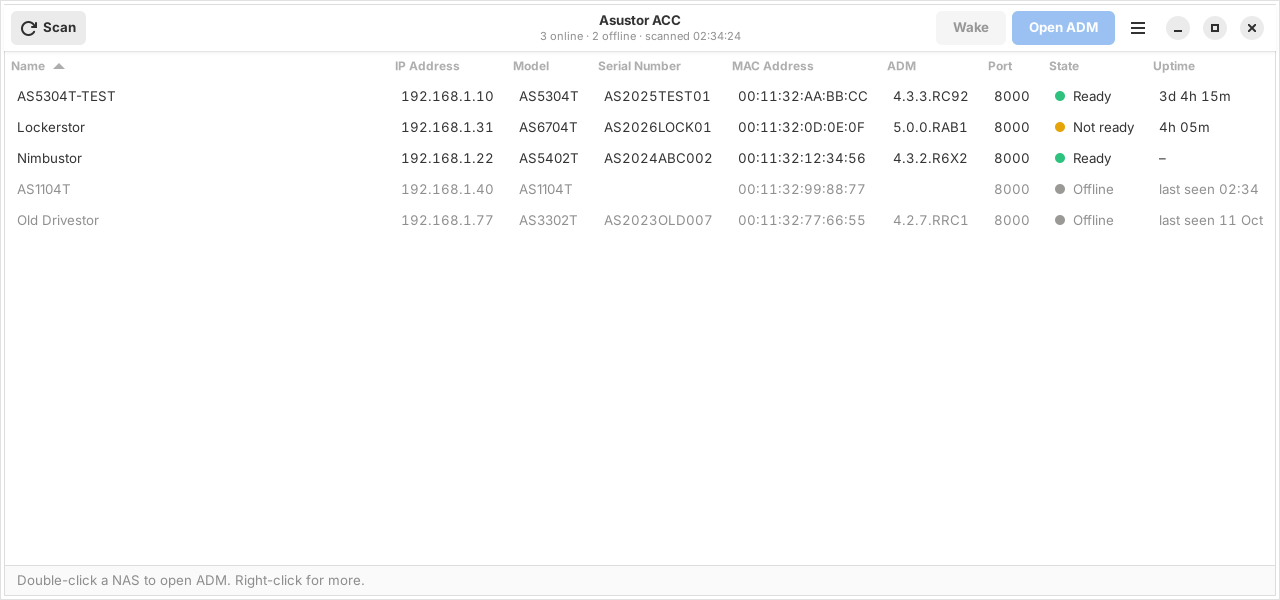
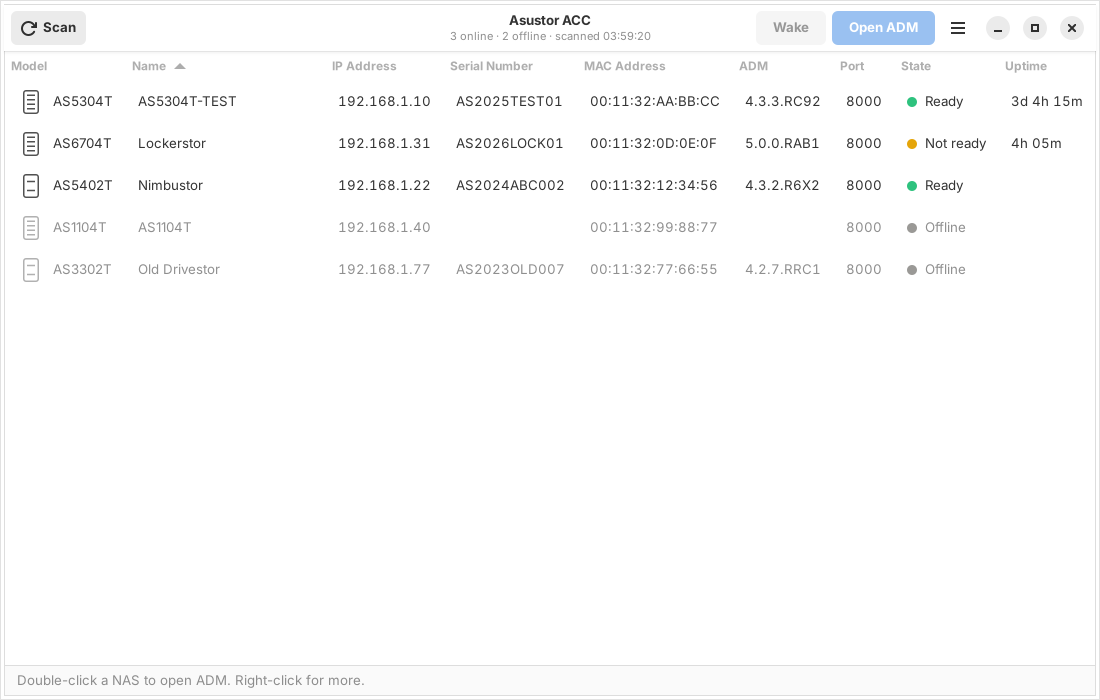
1.4.2: table first with the model column left and a model glyph, fast with hundreds of devices
- The table is the layout from 1000 px up; cells ellipsize with the
  full text in the tooltip, so a long serial no longer forces the card
  layout on a wide window. Cards below that.
- Model column first, with a small glyph of the NAS form factor (bays,
  tower/rack/flash) read off the model number; the cards lead with it.
- Applying a scan inserts new devices in one splice: with ~200 devices
  the per-device append made the views rebind for seconds and the
  window sat on 'Scanning'.
- Uptime column only when a NAS reports one; README screenshot.

diff --git a/gui/acc-gui.py b/gui/acc-gui.py
@@ -7,6 +7,7 @@ list, keeps them fresh and shows the uptime each NAS reports over SNMP.
 """
 import json
 import os
+import re
 import shutil
 import subprocess
 import sys
@@ -18,7 +19,9 @@ import gi
 
 gi.require_version("Gtk", "4.0")
 gi.require_version("Gdk", "4.0")
-from gi.repository import Gdk, Gio, GLib, GObject, Gtk, Pango  # noqa: E402
+gi.require_version("Gsk", "4.0")
+gi.require_version("Graphene", "1.0")
+from gi.repository import Gdk, Gio, GLib, GObject, Graphene, Gsk, Gtk, Pango  # noqa: E402
 
 # libadwaita is optional. With it the window follows the system's
 # light/dark preference and gets the current GNOME header bar look.
@@ -53,19 +56,18 @@ WEBSITE = "https://github.com/moringa303/asustor-acc-linux"
 SCAN_TIMEOUT = 4  # seconds acc listens for answers
 REFRESH_SECONDS = int(os.environ.get("ACC_GUI_REFRESH", "30"))
 
-# Layout. The device list is a table when the window content is wide
-# enough to show every column in full and a list of cards below that, so
-# nothing is ever truncated or hidden behind a horizontal scrollbar.
-# TABLE_WIDTH is what the nine columns need for typical content (1010 px
-# measured with the test harness devices). Below COMPACT_WIDTH the header
-# bar keeps only the Scan icon, Open ADM and the menu (Wake stays in the
-# menus) and the summary moves from the title to the status bar, so the
-# window can shrink to MIN_WIDTH without hiding anything. Both are floors:
-# the real width the table and the full header bar need is measured too,
-# and a layout gives way LAYOUT_SLACK before that, because a window
-# manager keeps the window at the current layout's minimum width and
-# would otherwise never let it reach the breakpoint.
-TABLE_WIDTH = 1010
+# Layout. The device list is the familiar table whenever the window is
+# at least TABLE_WIDTH wide; the cells ellipsize (the full text is in the
+# tooltip) so the table always fits and never needs a horizontal
+# scrollbar. Narrower windows get a list of cards that wrap their text.
+# Below COMPACT_WIDTH the header bar keeps only the Scan icon, Open ADM
+# and the menu (Wake stays in the menus) and the summary moves from the
+# title to the status bar, so the window can shrink to MIN_WIDTH. The
+# compact threshold is a floor: the real width the full header bar needs
+# is measured too, and it gives way LAYOUT_SLACK before that, because a
+# window manager keeps the window at the current layout's minimum width
+# and would otherwise never let it reach the breakpoint.
+TABLE_WIDTH = 1000
 COMPACT_WIDTH = 700
 LAYOUT_SLACK = 24
 MIN_WIDTH = 360
@@ -73,9 +75,9 @@ MIN_WIDTH = 360
 # Table columns: title, Device property, whether the column takes the
 # spare width.
 COLUMNS = [
+    ("Model", "model", False),
     ("Name", "name", True),
     ("IP Address", "ip", False),
-    ("Model", "model", False),
     ("Serial Number", "serial", False),
     ("MAC Address", "mac", False),
     ("ADM", "adm", False),
@@ -139,6 +141,79 @@ def format_seen(epoch):
     if t.date() == datetime.now().date():
         return t.strftime("%H:%M")
     return t.strftime("%-d %b")
+
+
+def model_shape(model):
+    """Bay count and form factor read off an ASUSTOR model number:
+    AS5304T -> (4, 'tower'), AS7112RD -> (12, 'rack'), FS6712X -> (12, 'flash')."""
+    name = model.upper()
+    digits = re.search(r"\d+", name)
+    bays = 0
+    if digits:
+        run = digits.group(0)
+        bays = int(run[-2:]) if len(run) >= 3 else int(run)
+    if "RD" in name:
+        kind = "rack"
+    elif name.startswith("FS"):
+        kind = "flash"
+    else:
+        kind = "tower"
+    return bays, kind
+
+
+class ModelGlyph(Gtk.Widget):
+    """Small line drawing of the NAS: a tower or rack unit with its drive
+    bays, drawn from the model number in the widget's text colour. Drawn
+    with GTK's own snapshot API, so it needs no pycairo."""
+
+    SIZE = 28
+    LINE = 1.5
+
+    def __init__(self):
+        super().__init__(valign=Gtk.Align.CENTER)
+        self.set_size_request(self.SIZE, self.SIZE)
+        self.bays, self.kind = 0, "tower"
+
+    def set_model(self, model):
+        shape = model_shape(model) if model else (0, "tower")
+        if shape != (self.bays, self.kind):
+            self.bays, self.kind = shape
+            self.queue_draw()
+
+    def do_snapshot(self, snapshot):
+        fg = self.get_color()
+        color = Gdk.RGBA()
+        color.red, color.green, color.blue, color.alpha = fg.red, fg.green, fg.blue, fg.alpha * 0.85
+        size, line = self.SIZE, self.LINE
+        if self.kind == "rack":
+            x, y, w, h = 1.0, size / 2 - 6, size - 2, 12
+            slots = min(max(self.bays, 2), 8)
+        else:
+            x, y, w, h = size / 2 - 8, 2.0, 16, size - 4
+            slots = min(max(self.bays, 1), 6)
+        outline = Gsk.RoundedRect()
+        outline.init_from_rect(Graphene.Rect().init(x, y, w, h), 3.0)
+        snapshot.append_border(outline, [line] * 4, [color] * 4)
+
+        def slot(sx, sy, sw, sh):
+            snapshot.append_color(color, Graphene.Rect().init(sx, sy, sw, sh))
+
+        if self.kind == "rack":
+            # vertical slots across the unit
+            gap = (w - 6) / slots
+            for i in range(slots):
+                slot(x + 3 + gap * i + gap / 2 - line / 2, y + 3, line, h - 6)
+        elif self.kind == "flash":
+            # 2.5" drives: short vertical slots in two columns
+            rows = max(1, (slots + 1) // 2)
+            gap = (h - 6) / rows
+            for i in range(slots):
+                slot(x + 5 + (i % 2) * 6 - line / 2, y + 3 + gap * (i // 2) + gap / 2 - 1.5, line, 3)
+        else:
+            # 3.5" drives: horizontal slots down the front
+            gap = (h - 6) / slots
+            for i in range(slots):
+                slot(x + 4, y + 3 + gap * i + gap / 2 - line / 2, w - 8, line)
 
 
 class Device(GObject.Object):
@@ -212,7 +287,7 @@ class Device(GObject.Object):
             state = f"Offline, last seen {format_seen(self.last_seen)}"
             seen = datetime.fromtimestamp(self.last_seen).strftime("%-d %b %Y %H:%M:%S")
             self.state_tip = f"Last answered a scan on {seen}"
-        parts = [state, self.ip, self.model,
+        parts = [state, self.ip,
                  f"ADM {self.adm}" if self.adm else "",
                  f"port {self.port}" if self.port else ""]
         self.details = " · ".join(p for p in parts if p)
@@ -295,7 +370,6 @@ class AccWindow(Gtk.ApplicationWindow):
         self.summary = ""
         self.view_name = "table"
         self.compact = False
-        self._table_width = 0  # widest the table measured since the last scan
         self._header_width = 0  # widest the full header bar measured so far
         self._status_timer = None
         self._rows = {}  # view -> {list item: (device, row widget)}
@@ -506,15 +580,12 @@ class AccWindow(Gtk.ApplicationWindow):
     # -- responsive layout -----------------------------------------------
     def _classify_layout(self, width):
         """Layout for the content width: (view name, compact header)."""
-        # The table keeps its cells while hidden, so its width is known in
-        # both layouts. The full header bar can only be measured while it
-        # is shown, so its width is remembered from then.
-        natural = self.view.measure(Gtk.Orientation.HORIZONTAL, -1)[1]
-        self._table_width = max(self._table_width, natural + LAYOUT_SLACK)
+        # The full header bar can only be measured while it is shown, so
+        # its width is remembered from then.
         if not self.compact:
             minimum = self.header.measure(Gtk.Orientation.HORIZONTAL, -1)[0]
             self._header_width = max(self._header_width, minimum + LAYOUT_SLACK)
-        return ("table" if width >= max(TABLE_WIDTH, self._table_width) else "cards",
+        return ("table" if width >= TABLE_WIDTH else "cards",
                 width < max(COMPACT_WIDTH, self._header_width))
 
     def _apply_layout(self, layout):
@@ -535,18 +606,24 @@ class AccWindow(Gtk.ApplicationWindow):
 
     # -- table cells -----------------------------------------------------
     def _setup_cell(self, _factory, item, prop):
-        label = Gtk.Label(xalign=0)
+        # Cells ellipsize so the table fits any width from TABLE_WIDTH up;
+        # the tooltip carries the full text.
+        label = Gtk.Label(xalign=0, ellipsize=Pango.EllipsizeMode.END)
         if prop in TABULAR:
             label.add_css_class("tabular")
-        if prop != "state":
+        if prop not in ("state", "model"):
             item.set_child(label)
             return
         box = Gtk.Box(spacing=8)
-        dot = Gtk.Box(valign=Gtk.Align.CENTER)
-        dot.add_css_class("state-dot")
-        box.append(dot)
+        if prop == "model":
+            box.glyph = ModelGlyph()
+            box.append(box.glyph)
+        else:
+            box.dot = Gtk.Box(valign=Gtk.Align.CENTER)
+            box.dot.add_css_class("state-dot")
+            box.append(box.dot)
         box.append(label)
-        box.dot, box.label = dot, label
+        box.label = label
         item.set_child(box)
 
     def _bind_cell(self, _factory, item, prop):
@@ -556,9 +633,15 @@ class AccWindow(Gtk.ApplicationWindow):
         item.bindings = [dev.bind_property(prop, label, "label", flags)]
         if prop == "uptime_text":
             item.bindings.append(dev.bind_property("uptime_tip", label, "tooltip-text", flags))
-        if prop == "state":
+        elif prop == "state":
             item.bindings.append(dev.bind_property("state_tip", widget, "tooltip-text", flags))
+        else:
+            item.bindings.append(dev.bind_property(prop, label, "tooltip-text", flags))
         item.handlers = [dev.connect("notify::online", lambda *_: self._style(widget, dev))]
+        if prop == "model":
+            widget.glyph.set_model(dev.model)
+            item.handlers.append(dev.connect(
+                "notify::model", lambda *_: widget.glyph.set_model(dev.model)))
         if prop == "state":
             item.handlers.append(dev.connect("notify::state", lambda *_: self._style(widget, dev)))
         self._style(widget, dev)
@@ -567,15 +650,18 @@ class AccWindow(Gtk.ApplicationWindow):
 
     # -- cards -----------------------------------------------------------
     def _setup_card(self, _factory, item):
+        # Model (with its glyph) first, then the name, uptime on the right.
         row = Gtk.Box(orientation=Gtk.Orientation.VERTICAL, spacing=2)
         top = Gtk.Box(spacing=8)
+        row.glyph = ModelGlyph()
         row.dot = Gtk.Box(valign=Gtk.Align.CENTER)
         row.dot.add_css_class("state-dot")
+        row.model = Gtk.Label(xalign=0)
+        row.model.add_css_class("card-name")
         row.name = Gtk.Label(xalign=0, hexpand=True, wrap=True, wrap_mode=Pango.WrapMode.WORD_CHAR)
-        row.name.add_css_class("card-name")
         row.uptime = Gtk.Label(xalign=1, valign=Gtk.Align.CENTER)
         row.uptime.add_css_class("tabular")
-        for w in (row.dot, row.name, row.uptime):
+        for w in (row.glyph, row.dot, row.model, row.name, row.uptime):
             top.append(w)
         row.details = Gtk.Label(xalign=0, wrap=True, wrap_mode=Pango.WrapMode.WORD_CHAR)
         row.ids = Gtk.Label(xalign=0, wrap=True, wrap_mode=Pango.WrapMode.WORD_CHAR)
@@ -587,7 +673,9 @@ class AccWindow(Gtk.ApplicationWindow):
     def _bind_card(self, _factory, item):
         dev, row = item.get_item(), item.get_child()
         flags = GObject.BindingFlags.SYNC_CREATE
+        row.glyph.set_model(dev.model)
         item.bindings = [
+            dev.bind_property("model", row.model, "label", flags),
             dev.bind_property("name", row.name, "label", flags),
             dev.bind_property("uptime_text", row.uptime, "label", flags),
             dev.bind_property("uptime_tip", row.uptime, "tooltip-text", flags),
@@ -595,7 +683,8 @@ class AccWindow(Gtk.ApplicationWindow):
             dev.bind_property("ids", row.ids, "label", flags),
         ]
         item.handlers = [dev.connect("notify::online", lambda *_: self._style(row, dev)),
-                         dev.connect("notify::state", lambda *_: self._style(row, dev))]
+                         dev.connect("notify::state", lambda *_: self._style(row, dev)),
+                         dev.connect("notify::model", lambda *_: row.glyph.set_model(dev.model))]
         self._style(row, dev)
         self._rows[self.cards][item] = (dev, row)
 
@@ -617,6 +706,9 @@ class AccWindow(Gtk.ApplicationWindow):
             target.remove_css_class("dim-label")
         else:
             target.add_css_class("dim-label")
+        glyph = getattr(widget, "glyph", None)
+        if glyph is not None:
+            glyph.set_opacity(1.0 if dev.online else 0.45)
         dot = getattr(widget, "dot", None)
         if dot is not None:
             for cls in STATE_CLASSES.values():
@@ -694,13 +786,15 @@ class AccWindow(Gtk.ApplicationWindow):
             else:
                 dev.update(data)
                 i += 1
-        for data in fresh.values():
-            self.store.append(Device(data))
+        # One splice instead of one append per device: every insert into
+        # the sorted model shifts rows and makes the views rebind, which
+        # with a few hundred devices takes seconds of main-loop time.
+        if fresh:
+            self.store.splice(self.store.get_n_items(), 0, [Device(d) for d in fresh.values()])
         self.filter.changed(Gtk.FilterChange.DIFFERENT)
         sorter = self.view.get_sorter()
         if sorter is not None:
             sorter.changed(Gtk.SorterChange.DIFFERENT)
-        self._table_width = 0  # content changed: measure the table afresh
 
     def _auto_scan(self):
         if self.auto_refresh and not self.scanning:

diff --git a/README.md b/README.md
@@ -47,12 +47,14 @@ All versions: [releases page](https://github.com/moringa303/asustor-acc-linux/re
   ```
 
 - `acc-gui`: GTK4 front-end with the familiar device table
-  (Name / IP / Model / Serial / MAC / ADM / Port / State / Uptime), Scan,
+  (Model / Name / IP / Serial / MAC / ADM / Port / State / Uptime), each
+  model with a small glyph of its form factor (tower, rack, flash), Scan,
   Open ADM and Wake buttons, a right-click menu (open shared folders,
   copy the IP or MAC, forget a device), sortable columns, and automatic
-  refresh every 30 seconds. The layout adapts to the window: a table
-  when it is wide enough for every column, a card list otherwise, never
-  a horizontal scrollbar or clipped text. Offline devices stay in the
+  refresh every 30 seconds. The table is the layout from 1000 px of
+  window width up (cells shorten with an ellipsis and show the full text
+  as a tooltip, never a horizontal scrollbar); narrower windows get a
+  card list. Offline devices stay in the
   list, dimmed, so you can wake them.
 
 - Uptime: read from the NAS via SNMP, shown in the CLI's UPTIME column
